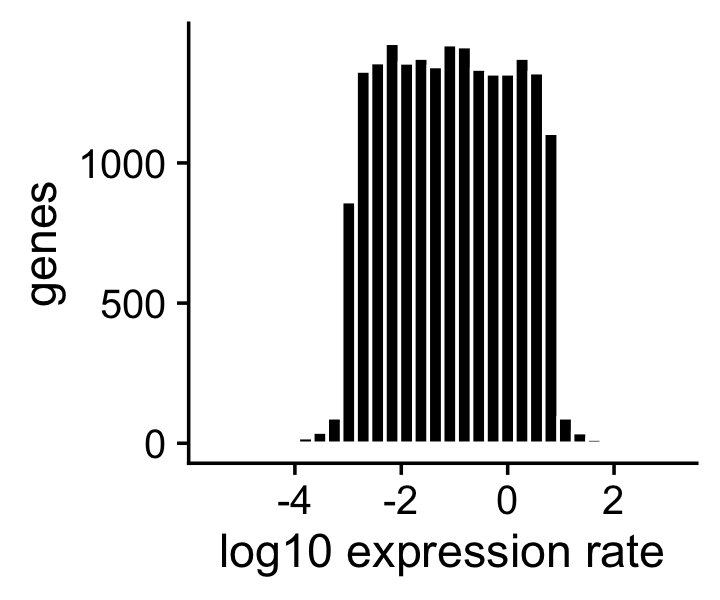
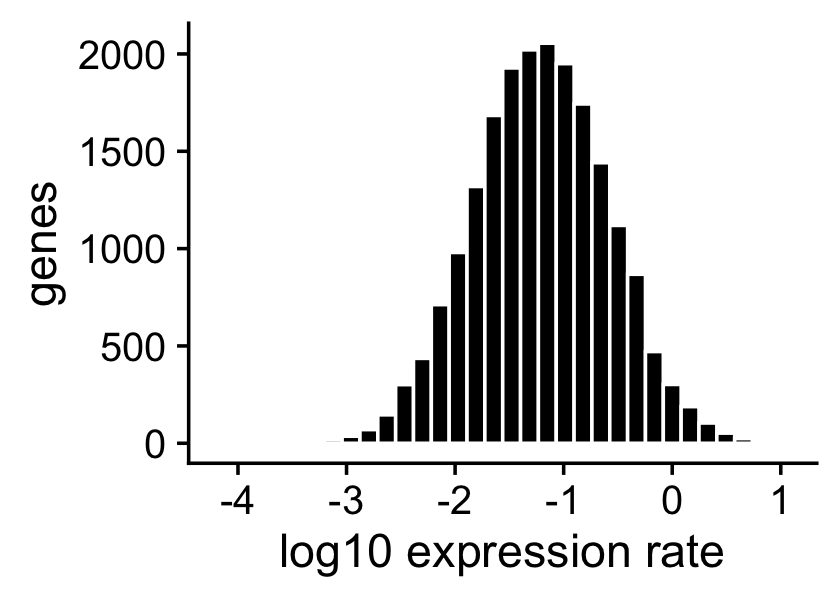
Revised the data simulation and added some "shrink vs. noshrink" plots in the de_analysis_detailed_look report.

diff --git a/docs/de_analysis_detailed_look.html b/docs/de_analysis_detailed_look.html
@@ -323,7 +323,7 @@ $(document).ready(function () {
 <div class="tab-content">
 <div id="summary" class="tab-pane fade in active">
 <p>
-<strong>Last updated:</strong> 2021-10-12
+<strong>Last updated:</strong> 2021-10-13
 </p>
 <p>
 <strong>Checks:</strong> <span class="glyphicon glyphicon-ok text-success" aria-hidden="true"></span> 7 <span class="glyphicon glyphicon-exclamation-sign text-danger" aria-hidden="true"></span> 0
@@ -414,16 +414,16 @@ This reproducible <a href="http://rmarkdown.rstudio.com">R Markdown</a> analysis
 <div class="panel panel-default">
 <div class="panel-heading">
 <p class="panel-title">
-<a data-toggle="collapse" data-parent="#workflowr-checks" href="#strongRepositoryversionstrongahrefhttpsgithubcomstephenslabsinglecelltopicstree2726a8651c8e07596cf2de0d4bbff1fe60d8d21dtargetblank2726a86a"> <span class="glyphicon glyphicon-ok text-success" aria-hidden="true"></span> <strong>Repository version:</strong> <a href="https://github.com/stephenslab/single-cell-topics/tree/2726a8651c8e07596cf2de0d4bbff1fe60d8d21d" target="_blank">2726a86</a> </a>
+<a data-toggle="collapse" data-parent="#workflowr-checks" href="#strongRepositoryversionstrongahrefhttpsgithubcomstephenslabsinglecelltopicstree6d639935d7369c9e29089d07777877134d21ce22targetblank6d63993a"> <span class="glyphicon glyphicon-ok text-success" aria-hidden="true"></span> <strong>Repository version:</strong> <a href="https://github.com/stephenslab/single-cell-topics/tree/6d639935d7369c9e29089d07777877134d21ce22" target="_blank">6d63993</a> </a>
 </p>
 </div>
[2 lines of base64/hex data omitted]
 <div class="panel-body">
 <p>
 Great! You are using Git for version control. Tracking code development and connecting the code version to the results is critical for reproducibility.
 </p>
 <p>
-The results in this page were generated with repository version <a href="https://github.com/stephenslab/single-cell-topics/tree/2726a8651c8e07596cf2de0d4bbff1fe60d8d21d" target="_blank">2726a86</a>. See the <em>Past versions</em> tab to see a history of the changes made to the R Markdown and HTML files.
+The results in this page were generated with repository version <a href="https://github.com/stephenslab/single-cell-topics/tree/6d639935d7369c9e29089d07777877134d21ce22" target="_blank">6d63993</a>. See the <em>Past versions</em> tab to see a history of the changes made to the R Markdown and HTML files.
 </p>
 <p>
 Note that you need to be careful to ensure that all relevant files for the analysis have been committed to Git prior to generating the results (you can use <code>wflow_publish</code> or <code>wflow_git_commit</code>). workflowr only checks the R Markdown file, but you know if there are other scripts or data files that it depends on. Below is the status of the Git repository when the results were generated:
@@ -485,6 +485,57 @@ Message
 </tr>
 </thead>
 <tbody>
+<tr>
+<td>
+Rmd
+</td>
+<td>
+<a href="https://github.com/stephenslab/single-cell-topics/blob/6d639935d7369c9e29089d07777877134d21ce22/analysis/de_analysis_detailed_look.Rmd" target="_blank">6d63993</a>
+</td>
+<td>
+Peter Carbonetto
+</td>
+<td>
+2021-10-13
+</td>
+<td>
+Made another simplification to simulate_twotopic_umi_data and added plots to de_analysis_detailed_look analysis comparing results with and without shrinkage.
+</td>
+</tr>
+<tr>
+<td>
+Rmd
+</td>
+<td>
+<a href="https://github.com/stephenslab/single-cell-topics/blob/157f7d3a004b5b065d83bbfaae50db2e4eff3804/analysis/de_analysis_detailed_look.Rmd" target="_blank">157f7d3</a>
+</td>
+<td>
+Peter Carbonetto
+</td>
+<td>
+2021-10-12
+</td>
+<td>
+Working on improved script driving_genes_better.R.
+</td>
+</tr>
+<tr>
+<td>
+html
+</td>
+<td>
+<a href="https://rawcdn.githack.com/stephenslab/single-cell-topics/af856a2297d146d651175053b4f585eed647d894/docs/de_analysis_detailed_look.html" target="_blank">af856a2</a>
+</td>
+<td>
+Peter Carbonetto
+</td>
+<td>
+2021-10-12
+</td>
+<td>
+Fixed the plots showing properties of the simulated data in the
+</td>
+</tr>
 <tr>
 <td>
 Rmd
@@ -598,28 +649,26 @@ I have an initial implementation of function simulate_twotopic_scrnaseq_data use
 <p>Load the packages used in the analysis below, and some additional functions for simulating the data.</p>
 <pre class="r"><code>library(Matrix)
 library(fastTopics)
-library(MCMCpack)
 library(ggplot2)
 library(cowplot)
 source(&quot;../code/de_eval_functions.R&quot;)</code></pre>
 <div id="simulate-umi-counts" class="section level2">
 <h2>Simulate UMI counts</h2>
-<p>We begin by simulating counts intended to “mimic” UMI count data from a single-cell RNA sequencing experiment. In particular, we simulate counts <span class="math inline">\(x_{ij}\)</span> from a Poisson NMF model <span class="math inline">\(x_{ij} \sim \mathrm{Poisson}(\lambda_{ij})\)</span>, such that <span class="math inline">\(\lambda_{ij} = \sum_{k=1}^K l_{ik} f_{jk}\)</span>. We focus our attention on the <span class="math inline">\(K = 2\)</span> case to simplify the analysis; comparing gene expression between three or topics brings some additional complications which aren’t necessary for assessing basic properties of the new DE methods. The simulation of the topic proportions <span class="math inline">\(l_{ik}\)</span> and the gene expression rates <span class="math inline">\(f_{jk}\)</span> is described in the comments accompanying function <code>simulate_twotopic_umi_data</code>.</p>
+<p>We begin by simulating counts from a rank-2 Poisson NMF model with parameters chosen to roughly replicate the UMI counts obtained from a single-cell RNA sequencing experiment. In particular, we simulate counts <span class="math inline">\(x_{ij} \sim \mathrm{Poisson}(\lambda_{ij})\)</span>, such that <span class="math inline">\(\lambda_{ij} = \sum_{k=1}^K s_i l_{ik} f_{jk}\)</span>, with <span class="math inline">\(K = 2\)</span>, For now, we focus our attention on the <span class="math inline">\(K = 2\)</span> case to simplify the analysis; comparing gene expression between three or topics brings some additional complications which aren’t necessary for assessing basic properties of the new DE methods. For more details on how the data are simulated, see function <code>simulate_twotopic_umi_data</code>.</p>
 <pre class="r"><code>set.seed(1)
 dat &lt;- simulate_twotopic_umi_data()
-X &lt;- dat$X</code></pre>
-<p>The sample sizes (total counts for each cell) in the simulated data are roughly normally distributed on the (base-10) log scale with mean 3.2 and standard deviation 0.2:</p>
+X &lt;- dat$X
+F &lt;- dat$F
+L &lt;- dat$L</code></pre>
+<p>Before fitting a topic model and running a DE analysis, we first inspect some basic properties of the simulated data.</p>
+<p>The sample sizes (total counts for each cell) in the simulated data are roughly normally distributed on the (base-10) log scale:</p>
 <pre class="r"><code>s &lt;- rowSums(X)
 p1 &lt;- ggplot(data.frame(s = log10(s)),aes(x = s)) +
   geom_histogram(color = &quot;white&quot;,fill = &quot;black&quot;,bins = 32) +
   labs(x = &quot;log10 size&quot;,y = &quot;cells&quot;) +
   theme_cowplot()
-print(p1)
-mean(log10(s))
-sd(log10(s))
-# [1] 3.291997
-# [1] 0.2360261</code></pre>
-<p><img src="figure/de_analysis_detailed_look.Rmd/sizes-1.png" width="360" style="display: block; margin: auto;" /></p>
+print(p1)</code></pre>
+<p><img src="figure/de_analysis_detailed_look.Rmd/sizes-1.png" width="420" style="display: block; margin: auto;" /></p>
 <p>
 <button type="button" class="btn btn-default btn-xs btn-workflowr btn-workflowr-fig" data-toggle="collapse" data-target="#fig-sizes-1">
 Past versions of sizes-1.png
@@ -644,6 +693,17 @@ Date
 <tbody>
 <tr>
 <td>
+<a href="https://github.com/stephenslab/single-cell-topics/blob/af856a2297d146d651175053b4f585eed647d894/docs/figure/de_analysis_detailed_look.Rmd/sizes-1.png" target="_blank">af856a2</a>
+</td>
+<td>
+Peter Carbonetto
+</td>
+<td>
+2021-10-12
+</td>
+</tr>
+<tr>
+<td>
 <a href="https://github.com/stephenslab/single-cell-topics/blob/b8eadee74bec2b96540bc9b4ca80482e3ef22942/docs/figure/de_analysis_detailed_look.Rmd/sizes-1.png" target="_blank">b8eadee</a>
 </td>
 <td>
@@ -657,13 +717,13 @@ Peter Carbonetto
 </table>
 </div>
 </div>
-<p>We have generated the expression rates so that they are roughly uniformly distributed on the log scale:</p>
-<pre class="r"><code>p2 &lt;- ggplot(data.frame(f = as.vector(dat$F)),aes(x = log10(f))) +
+<p>The expression rates were simulated so that they are normally distributed on the log scale:</p>
+<pre class="r"><code>p2 &lt;- ggplot(data.frame(f = as.vector(F)),aes(x = log10(f))) +
   geom_histogram(color = &quot;white&quot;,fill = &quot;black&quot;,bins = 32) +
   labs(x = &quot;log10 expression rate&quot;,y = &quot;genes&quot;) +
   theme_cowplot()
 print(p2)</code></pre>
-<p><img src="figure/de_analysis_detailed_look.Rmd/gene-expression-rates-1.png" width="360" style="display: block; margin: auto;" /></p>
+<p><img src="figure/de_analysis_detailed_look.Rmd/gene-expression-rates-1.png" width="420" style="display: block; margin: auto;" /></p>
 <p>
 <button type="button" class="btn btn-default btn-xs btn-workflowr btn-workflowr-fig" data-toggle="collapse" data-target="#fig-gene-expression-rates-1">
 Past versions of gene-expression-rates-1.png
@@ -688,6 +748,17 @@ Date
 <tbody>
 <tr>
 <td>
+<a href="https://github.com/stephenslab/single-cell-topics/blob/af856a2297d146d651175053b4f585eed647d894/docs/figure/de_analysis_detailed_look.Rmd/gene-expression-rates-1.png" target="_blank">af856a2</a>
+</td>
+<td>
+Peter Carbonetto
+</td>
+<td>
+2021-10-12
+</td>
+</tr>
+<tr>
+<td>
 <a href="https://github.com/stephenslab/single-cell-topics/blob/b8eadee74bec2b96540bc9b4ca80482e3ef22942/docs/figure/de_analysis_detailed_look.Rmd/gene-expression-rates-1.png" target="_blank">b8eadee</a>
 </td>
 <td>
@@ -701,16 +772,17 @@ Peter Carbonetto
 </table>
 </div>
 </div>
-<p>About half of the genes have differences in expression between the two topics, and among the nonzero gene expression differences, the LFCs are roughly <em>t</em>-distibuted with 3 degrees of freedom:</p>
-<pre class="r"><code>lfc &lt;- log2(dat$F[,1]/dat$F[,2])
-p3 &lt;- ggplot(data.frame(lfc = lfc[lfc != 0]),aes(x = lfc)) +
+<p>About half of the genes have nonzero differences in expression between the two topics. Among the nonzero gene expression differences, the log-fold changes (LFCs) were simulated from the normal distribution:</p>
+<pre class="r"><code>nonzero_lfc &lt;- abs(F[,1] - F[,2]) &gt; 1e-8
+lfc &lt;- log2(F[,1]/F[,2])
+p3 &lt;- ggplot(data.frame(lfc = lfc[nonzero_lfc]),aes(x = lfc)) +
   geom_histogram(color = &quot;white&quot;,fill = &quot;black&quot;,bins = 32) +
   labs(x = &quot;LFC&quot;,y = &quot;genes&quot;) +
   theme_cowplot()
 print(p3)
-mean(lfc == 0)
-# [1] 0.5024</code></pre>
-<p><img src="figure/de_analysis_detailed_look.Rmd/lfc-density-1.png" width="360" style="display: block; margin: auto;" /></p>
+mean(nonzero_lfc)
+# [1] 0.496</code></pre>
+<p><img src="figure/de_analysis_detailed_look.Rmd/lfc-density-1.png" width="420" style="display: block; margin: auto;" /></p>
 <p>
 <button type="button" class="btn btn-default btn-xs btn-workflowr btn-workflowr-fig" data-toggle="collapse" data-target="#fig-lfc-density-1">
 Past versions of lfc-density-1.png
@@ -735,6 +807,17 @@ Date
 <tbody>
 <tr>
 <td>
+<a href="https://github.com/stephenslab/single-cell-topics/blob/af856a2297d146d651175053b4f585eed647d894/docs/figure/de_analysis_detailed_look.Rmd/lfc-density-1.png" target="_blank">af856a2</a>
+</td>
+<td>
+Peter Carbonetto
+</td>
+<td>
+2021-10-12
+</td>
+</tr>
+<tr>
+<td>
 <a href="https://github.com/stephenslab/single-cell-topics/blob/b8eadee74bec2b96540bc9b4ca80482e3ef22942/docs/figure/de_analysis_detailed_look.Rmd/lfc-density-1.png" target="_blank">b8eadee</a>
 </td>
 <td>
@@ -748,6 +831,105 @@ Peter Carbonetto
 </table>
 </div>
 </div>
+</div>
+<div id="fit-multinomial-topic-model-to-umi-counts" class="section level2">
+<h2>Fit multinomial topic model to UMI counts</h2>
+<p>Here we fit a multinomial topic model to the simulated UMI count data. To simplify evaluation of the DE methods, we assume that the topic proportions are known, and set to the ground truth (that is, the values used to simulate the data), so that the only error that can arise is in the estimates of the expression rates.</p>
+<pre class="r"><code>fit0 &lt;- init_poisson_nmf(X,F = dat$F,L = with(dat,s*L))
+fit &lt;- fit_poisson_nmf(X,fit0 = fit0,numiter = 40,method = &quot;scd&quot;,
+                       update.loadings = NULL,verbose = &quot;none&quot;)
+# Using 4 RcppParallel threads.
+fit &lt;- poisson2multinom(fit)
+summary(fit)
+# Set show.size.factors = TRUE, show.mixprops = TRUE and/or show.topic.reps = TRUE in print(...) for more information
+# Model overview:
+#   Number of data rows, n: 200
+#   Number of data cols, m: 10000
+#   Rank/number of topics, k: 2
+# Evaluation of model fit (40 updates performed):
+#   Poisson NMF log-likelihood: -7.169037374429e+05
+#   Multinomial topic model log-likelihood: -7.158926302076e+05
+#   Poisson NMF deviance: +8.564731575439e+05
+#   Max KKT residual: +4.123695e-06</code></pre>
+</div>
+<div id="de-analysis-with-and-without-shrinkage" class="section level2">
+<h2>DE analysis with and without shrinkage</h2>
+<p>First we perform a DE analysis without shrinking the LFC estimates:</p>
+<pre class="r"><code>set.seed(1)
+de.noshrink &lt;- de_analysis(fit,X,shrink.method = &quot;none&quot;,
+                           control = list(nc = 4))
+# Using 4 RcppParallel threads.
+# Using 4 SOCK threads.
+# Progress bar cannot be shown when multithreading is used. For large data sets, the total runtime may be estimated by performing an initial test run with a small number of Monte Carlo samples, e.g., ns = 10; the total runtime should scale roughly linearly in ns, the number of Monte Carlo samples.
+# Fitting 10000 Poisson models with k=2 using method=&quot;scd&quot;.
+# Computing log-fold change statistics from 10000 Poisson models with k=2.</code></pre>
+<p>Next we perform a second DE analysis using adaptive shrinkage to shrink (and hopefully improve accuracy of) the LFC estimates:</p>
+<pre class="r"><code>set.seed(1)
+de &lt;- de_analysis(fit,X,shrink.method = &quot;ash&quot;,control = list(nc = 4))
+# Using 4 RcppParallel threads.
+# Using 4 SOCK threads.
+# Progress bar cannot be shown when multithreading is used. For large data sets, the total runtime may be estimated by performing an initial test run with a small number of Monte Carlo samples, e.g., ns = 10; the total runtime should scale roughly linearly in ns, the number of Monte Carlo samples.
+# Fitting 10000 Poisson models with k=2 using method=&quot;scd&quot;.
+# Computing log-fold change statistics from 10000 Poisson models with k=2.
+# Stabilizing posterior log-fold change estimates using adaptive shrinkage.</code></pre>
+<p><em>Add text here.</em></p>
+<pre class="r"><code>pdat &lt;- data.frame(noshrink  = de.noshrink$postmean[,1],
+                   shrink    = de$postmean[,1],
+                   log10mean = log10(de$f0))
+p4 &lt;- ggplot(pdat,aes(x = noshrink,y = shrink,fill = log10mean)) +
+  geom_point(shape = 21,color = &quot;white&quot;) +
+  geom_abline(intercept = 0,slope = 1,color = &quot;black&quot;,linetype = &quot;dotted&quot;) +
+  scale_fill_gradient2(low = &quot;deepskyblue&quot;,mid = &quot;gold&quot;,high = &quot;orangered&quot;,
+                       midpoint = -3.5) +
+  xlim(c(-7,7.3)) +
+  ylim(c(-7,7.3)) +
+  labs(x = &quot;original LFC estimates&quot;,
+       y = &quot;shrunken LFC estimates&quot;) +
+  theme_cowplot()
+print(p4)</code></pre>
+<p><img src="figure/de_analysis_detailed_look.Rmd/shrink-vs-noshrink-scatterplot-1.png" width="600" style="display: block; margin: auto;" /></p>
+<p><em>Add text here.</em></p>
+<pre class="r"><code>pdat &lt;- data.frame(noshrink = clamp(de.noshrink$z[,1],-4,+4),
+                   shrink   = clamp(de$z[,1],-4,+4),
+                   de       = factor(nonzero_lfc))
+p5 &lt;- ggplot(pdat,aes(x = noshrink,color = de,fill = de)) +
+  geom_histogram(bins = 64) +
+  scale_color_manual(values = c(&quot;darkorange&quot;,&quot;darkblue&quot;)) +
+  scale_fill_manual(values = c(&quot;darkorange&quot;,&quot;darkblue&quot;)) +
+  labs(x = &quot;LFC estimate&quot;,y = &quot;genes&quot;,title = &quot;without shrinkage&quot;) +
+  theme_cowplot()
+p6 &lt;- ggplot(pdat,aes(x = shrink,color = de,fill = de)) +
+  geom_histogram(bins = 64) +
+  scale_color_manual(values = c(&quot;darkorange&quot;,&quot;darkblue&quot;)) +
+  scale_fill_manual(values = c(&quot;darkorange&quot;,&quot;darkblue&quot;)) +
+  labs(x = &quot;LFC estimate&quot;,y = &quot;genes&quot;,title = &quot;with shrinkage&quot;) +
+  theme_cowplot()
+print(plot_grid(p5,p6))
+# Warning: Removed 6 rows containing non-finite values (stat_bin).
+
+# Warning: Removed 6 rows containing non-finite values (stat_bin).</code></pre>
+<p><img src="figure/de_analysis_detailed_look.Rmd/shrink-vs-noshrink-zscores-1.png" width="960" style="display: block; margin: auto;" /></p>
+<p><em>Add text here.</em></p>
+<pre class="r"><code>pdat &lt;- data.frame(noshrink = 10^(-de.noshrink$lpval[,1]),
+                   shrink   = 10^(-de$lpval[,1]),
+                   de       = factor(nonzero_lfc))
+p7 &lt;- ggplot(pdat,aes(x = noshrink,color = de,fill = de)) +
+  geom_histogram(bins = 64) +
+  scale_color_manual(values = c(&quot;darkorange&quot;,&quot;darkblue&quot;)) +
+  scale_fill_manual(values = c(&quot;darkorange&quot;,&quot;darkblue&quot;)) +
+  labs(x = &quot;p-value&quot;,y = &quot;genes&quot;,title = &quot;without shrinkage&quot;) +
+  theme_cowplot()
+p8 &lt;- ggplot(pdat,aes(x = shrink,color = de,fill = de)) +
+  geom_histogram(bins = 64) +
+  scale_color_manual(values = c(&quot;darkorange&quot;,&quot;darkblue&quot;)) +
+  scale_fill_manual(values = c(&quot;darkorange&quot;,&quot;darkblue&quot;)) +
+  labs(x = &quot;p-value&quot;,y = &quot;genes&quot;,title = &quot;with shrinkage&quot;) +
+  theme_cowplot()
+print(plot_grid(p7,p8))
+# Warning: Removed 6 rows containing non-finite values (stat_bin).
+
+# Warning: Removed 6 rows containing non-finite values (stat_bin).</code></pre>
+<p><img src="figure/de_analysis_detailed_look.Rmd/shrink-vs-noshrink-pvalues-1.png" width="960" style="display: block; margin: auto;" /></p>
 <br>
 <p>
 <button type="button" class="btn btn-default btn-workflowr btn-workflowr-sessioninfo" data-toggle="collapse" data-target="#workflowr-sessioninfo" style="display: block;">
@@ -771,8 +953,7 @@ Peter Carbonetto
 # [1] stats     graphics  grDevices utils     datasets  methods   base     
 # 
 # other attached packages:
-# [1] cowplot_1.0.0     ggplot2_3.3.5     MCMCpack_1.4-5    MASS_7.3-51.4    
-# [5] coda_0.19-3       fastTopics_0.6-70 Matrix_1.2-18    
+# [1] cowplot_1.0.0     ggplot2_3.3.5     fastTopics_0.6-70 Matrix_1.2-18    
 # 
 # loaded via a namespace (and not attached):
 #  [1] httr_1.4.2         tidyr_1.1.3        jsonlite_1.7.2     viridisLite_0.3.0 
@@ -786,14 +967,15 @@ Peter Carbonetto
 # [33] farver_2.0.1       generics_0.0.2     ellipsis_0.3.2     withr_2.4.2       
 # [37] ashr_2.2-51        lazyeval_0.2.2     magrittr_2.0.1     crayon_1.4.1      
 # [41] mcmc_0.9-6         evaluate_0.14      fs_1.3.1           fansi_0.4.0       
-# [45] truncnorm_1.0-8    tools_3.6.2        data.table_1.12.8  prettyunits_1.1.1 
-# [49] hms_1.1.0          lifecycle_1.0.0    stringr_1.4.0      plotly_4.9.2      
-# [53] munsell_0.5.0      irlba_2.3.3        compiler_3.6.2     rlang_0.4.11      
-# [57] grid_3.6.2         htmlwidgets_1.5.1  labeling_0.3       rmarkdown_2.3     
-# [61] gtable_0.3.0       DBI_1.1.0          R6_2.4.1           knitr_1.26        
-# [65] dplyr_1.0.7        utf8_1.1.4         workflowr_1.6.2    rprojroot_1.3-2   
-# [69] stringi_1.4.3      parallel_3.6.2     SQUAREM_2017.10-1  Rcpp_1.0.7        
-# [73] vctrs_0.3.8        tidyselect_1.1.1   xfun_0.11</code></pre>
+# [45] MASS_7.3-51.4      truncnorm_1.0-8    tools_3.6.2        data.table_1.12.8 
+# [49] prettyunits_1.1.1  hms_1.1.0          lifecycle_1.0.0    stringr_1.4.0     
+# [53] MCMCpack_1.4-5     plotly_4.9.2       munsell_0.5.0      irlba_2.3.3       
+# [57] compiler_3.6.2     rlang_0.4.11       grid_3.6.2         htmlwidgets_1.5.1 
+# [61] labeling_0.3       rmarkdown_2.3      gtable_0.3.0       DBI_1.1.0         
+# [65] R6_2.4.1           knitr_1.26         dplyr_1.0.7        utf8_1.1.4        
+# [69] workflowr_1.6.2    rprojroot_1.3-2    stringi_1.4.3      parallel_3.6.2    
+# [73] SQUAREM_2017.10-1  Rcpp_1.0.7         vctrs_0.3.8        tidyselect_1.1.1  
+# [77] xfun_0.11          coda_0.19-3</code></pre>
 </div>
 </div>
 
